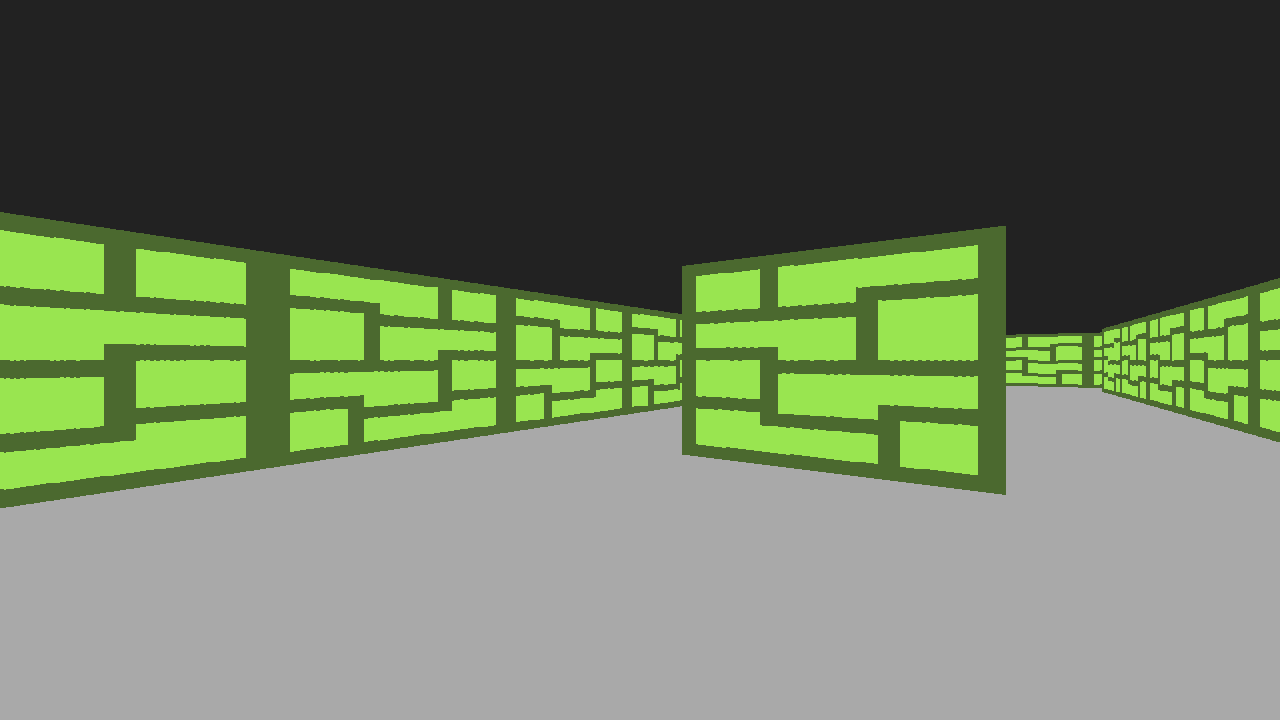
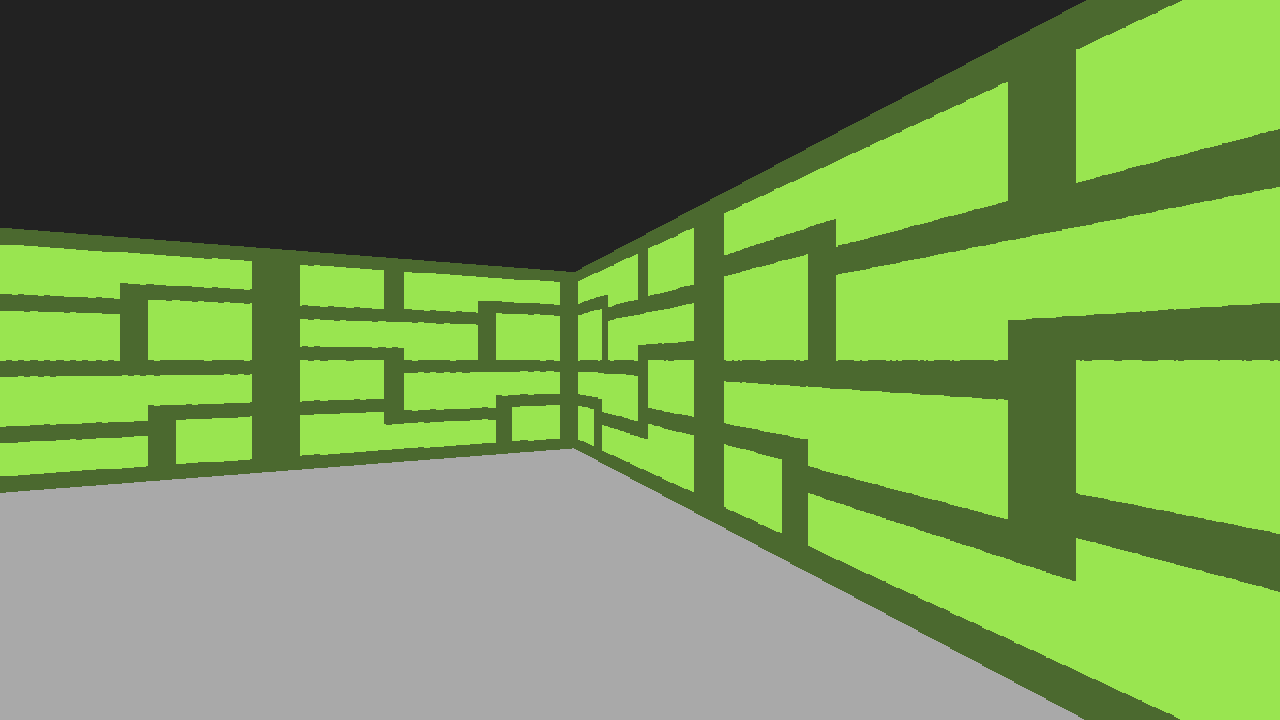
Added Relics
- Relics
- Relic Icons
- Relic Class
- Relic info
- Relics now are properly displayed in battle won menu
- When a relic is selected in the menu the player's stats are actually affected

diff --git a/main.py b/main.py
@@ -21,8 +21,6 @@ print("Hello World!")
 player_pos = [2.5,10.5]#The coordinate of the player, (xy)
 
 
-
-
 def new_maze(wall_tiles = [wall_image("Brick.png"), wall_image("Blue_Brick.png")]):
     global map, player_pos
 
@@ -75,10 +73,14 @@ map = [[1,1,1,1,1,1,1,1,1],
        [1,0,"S",0,1],
        [1,0,1,0,tile("Wall",wall_image=wall_image("Blue_Brick.png"))],
        [1,0,0,0,tile("Wall",wall_image=wall_image("SmoothStone.png"))],
+       [1,0,0,0,1,1,1,1,1],
+       [1,0,0,0,"BasicSlime","BasicSlime","BasicSlime","BasicSlime",1],
+       [1,0,"S",0,1,1,1,1,1],
        [1,0,"BasicSlime",0,tile("Wall",wall_image=wall_image("SmoothStone.png")),1,1,1,1],
        [wallTest,0,0,0,0,0,0,0,1],
        [1,0,"W",0,0,0,"KingFireSlime",0,1],#W on this line is just an indicator for me for where the player starts, it doesn't affect any processing
        [1,1,1,1,1,1,1,1,1]]
+
 
 
 for x in range(len(map)):
@@ -91,7 +93,7 @@ for x in range(len(map)):
             map[x][y]=tile("Sprite",spriteInfo=map[x][y])
         elif type(map[x][y])==str:
             map[x][y]=tile("Enemy",spriteInfo=map[x][y])
-            # print(1)
+
 
 # print(type(tile("Wall",wall_image("Smooth_Stone.png"))))
 
@@ -118,6 +120,15 @@ turnOrder = ["#0000FF","#0000FF","#FF0000","#0000FF","#FF0000"]
 # door = Image.open("Assets/Door.png")
 
 sprites_loaded = {"door" : pygame.image.load("Assets/Door.png").convert_alpha(),"KingFireSlime": pygame.image.load("Assets/KingFireSlime.png").convert_alpha(),"BasicSlime": pygame.image.load("Assets/BasicSlime.png").convert_alpha()}
+
+icons = {"SpeedSyringe": pygame.image.load("Assets/Syringe.png").convert_alpha(),"HeavyPlating": pygame.image.load("Assets/HeavyPlating.png").convert_alpha(),
+         "SpikeyBand": pygame.image.load("Assets/SpikeyBand.png").convert_alpha(),"FireShard": pygame.image.load("Assets/FireShard.png").convert_alpha(),
+         "IceShard": pygame.image.load("Assets/IceShard.png").convert_alpha(),"EarthShard": pygame.image.load("Assets/EarthShard.png").convert_alpha(),
+         "HPUP": pygame.image.load("Assets/Sprite.png").convert_alpha(),"Battery": pygame.image.load("Assets/Battery.png").convert_alpha(),}
+
+
+relics = load_relics()
+randomRelics = []
 
 #UI images
 player_selfie = pygame.image.load("Assets/PlayerSelfie.png").convert_alpha()
@@ -724,11 +735,36 @@ def draw_battle_won_UI():
     pygame.draw.rect(screen,reward_selection_colours[0], pygame.Rect(420,150,440,100),border_radius=10)
     pygame.draw.rect(screen,"#000000", pygame.Rect(422,152,436,96),border_radius=10)
 
+    pygame.draw.rect(screen,"#FFFFFF", pygame.Rect(428,158,84,84),border_radius=2)
+    screen.blit(pygame.transform.scale_by(icons[randomRelics[0].image],5),(430,160))
+
+    draw_text(screen,randomRelics[0].name,"#FFFFFF",525,160,fontSize=36)
+    draw_text(screen,randomRelics[0].description,"#FFFFFF",525,200,fontSize=16)
+    draw_text(screen,randomRelics[0].effectDescription,"#FFFFFF",525,220,fontSize=16)
+
+
+
     pygame.draw.rect(screen,reward_selection_colours[1], pygame.Rect(420,270,440,100),border_radius=10)
     pygame.draw.rect(screen,"#000000", pygame.Rect(422,272,436,96),border_radius=10)
 
+    pygame.draw.rect(screen,"#FFFFFF", pygame.Rect(428,278,84,84),border_radius=2)
+    screen.blit(pygame.transform.scale_by(icons[randomRelics[1].image],5),(430,280))
+
+    draw_text(screen,randomRelics[1].name,"#FFFFFF",525,280,fontSize=36)
+    draw_text(screen,randomRelics[1].description,"#FFFFFF",525,320,fontSize=16)
+    draw_text(screen,randomRelics[1].effectDescription,"#FFFFFF",525,340,fontSize=16)
+
+
+
     pygame.draw.rect(screen,reward_selection_colours[2], pygame.Rect(420,390,440,100),border_radius=10)
     pygame.draw.rect(screen,"#000000", pygame.Rect(422,392,436,96),border_radius=10)
+
+    pygame.draw.rect(screen,"#FFFFFF", pygame.Rect(428,398,84,84),border_radius=2)
+    screen.blit(pygame.transform.scale_by(icons[randomRelics[2].image],5),(430,400))
+
+    draw_text(screen,randomRelics[2].name,"#FFFFFF",525,400,fontSize=36)
+    draw_text(screen,randomRelics[2].description,"#FFFFFF",525,440,fontSize=16)
+    draw_text(screen,randomRelics[2].effectDescription,"#FFFFFF",525,460,fontSize=16)
 
     #:D
     draw_text(screen,f":D","#FFFFFF",640,600,fontSize=24,centre=True)
@@ -781,11 +817,20 @@ def check_over_max_hp():
 
 
 def check_battle_end():
+    global randomRelics
+
     if player_stats.hp <= 0:
         pass
     if enemy_obj.hp <= 0:
+        #End battle and go to battle won menu
         game_state.set_value("Battle-Won")
         # map[int(player_pos[1])][int(player_pos[0])] = 0
+
+        #Choose 3 Random Relics
+        # randomRelics = [random.choice(relics),random.choice(relics),random.choice(relics)]
+        randomRelics = []
+        for _ in range(3):
+            randomRelics.append(random.choice(relics))
         draw_screen()
 
 
@@ -810,7 +855,7 @@ class battleAnimation():
 
         # pygame.draw.rect(surface=surface, color="green", rect=pygame.Rect(c,c,c,c))
 
-        print(self.lengthTime//self.numberOfFrames)
+        # print(self.lengthTime//self.numberOfFrames)
 
         for _ in range(self.lengthTime):
             
@@ -839,7 +884,7 @@ class battleAnimation():
         pygame.image.save(surface,"Assets/saveBattleAnimationBackground.png")
 
         
-        print(self.lengthTime//self.numberOfFrames)
+        # print(self.lengthTime//self.numberOfFrames)
 
 
         for _ in range(self.lengthTime):
@@ -1190,6 +1235,13 @@ def main():
                         game_state.set_value("Moving")
                         draw_screen()
                         pygame.display.flip()
+
+                        # player_stats.relics.append("Speed Syringe")
+                        # player_stats.speed *= 1.1
+
+                        player_stats.relics.append(randomRelics[menu_selected["Battle-Won"]].name)
+                        relic_apply_stat_change(player_stats, randomRelics[menu_selected["Battle-Won"]])
+
                         break
                     if event.key == pygame.K_w or event.key == pygame.K_UP:
                         menu_selected["Battle-Won"] = (menu_selected["Battle-Won"]-1)% 3#cycle up, %3 to go back to the bottom

diff --git a/battleElements.py b/battleElements.py
@@ -14,6 +14,11 @@ class battle_container():
         self.fireDefence = fireDefence
         self.iceDefence = iceDefence
         self.earthDefence = earthDefence
+
+    #prints out all the attributes of the object
+    #useful for testing
+    def output_stats(self):
+        print(vars(self))
         
 
 class player_battle_container(battle_container):
@@ -152,6 +157,58 @@ class enemy_move():
         self.damageType=damageType
         self.value = value
         self.anim = damageType+str(animNum)+"Enemy"
+
+
+class relic():
+    def __init__(self,name:str, description:str, effectDescription:str,image,stat:str,addVal=0,multVal=1):
+        self.name = name
+        self.description = description
+        self.effectDescription = effectDescription
+        self.image=image
+        self.stat = stat
+        self.addVal = addVal
+        self.multVal = multVal
+
+def load_relics():
+    relicTempList = []
+    relicTempList.append(relic("Spikey Band","This will make your attacks hurt more","(Increases Physical Strength by 10%)","SpikeyBand","physicalStrength",multVal=1.1))
+    relicTempList.append(relic("Heavy Plating","This plating will dull your opponents blows","(Increases Defence by 10%)","HeavyPlating","defence",multVal=1.1))
+    relicTempList.append(relic("Speed Syringe","This special serum will make you move quicker","(Increases speed by 10%)","SpeedSyringe","speed",multVal=1.1))
+    relicTempList.append(relic("Fire Shard","This will imporve your ability to use fire","(Increases fire affinity by 10%)","FireShard","fireAffinity",multVal=1.1))
+    relicTempList.append(relic("Ice Shard","This will imporve your ability to use ice","(Increases ice affinity by 10%)","IceShard","iceAffinity",multVal=1.1))
+    relicTempList.append(relic("Earth Shard","This will imporve your ability to use earth","(Increases earth affinity by 10%)","EarthShard","EarthAffinity",multVal=1.1))
+    relicTempList.append(relic("HP","This will increase your HP","(+10 HP)","HPUP","HP",addVal=10))
+    relicTempList.append(relic("Battery","This will increase your energy capacity","(+5 EP)","Battery","EP",addVal=5))
+
+    return relicTempList
+
+
+def relic_apply_stat_change(playerObject: battle_container,relicObject: relic):
+    stat = relicObject.stat
+    if stat == "physicalStrength":
+        playerObject.physicalStrength = (playerObject.physicalStrength + relicObject.addVal) * relicObject.multVal
+    elif stat == "defence":
+        playerObject.defence = (playerObject.defence + relicObject.addVal) * relicObject.multVal
+    elif stat == "speed":
+        playerObject.speed = (playerObject.speed + relicObject.addVal) * relicObject.multVal
+    elif stat == "fireAffinity":
+        playerObject.fireStrength = (playerObject.fireStrength + relicObject.addVal) * relicObject.multVal
+        playerObject.fireDefence = (playerObject.fireDefence + relicObject.addVal) * relicObject.multVal
+    elif stat == "iceAffinity":
+        playerObject.iceStrength = (playerObject.iceStrength + relicObject.addVal) * relicObject.multVal
+        playerObject.iceDefence = (playerObject.iceDefence + relicObject.addVal) * relicObject.multVal
+    elif stat == "earthAffinity":
+        playerObject.earthStrength = (playerObject.earthStrength + relicObject.addVal) * relicObject.multVal
+        playerObject.earthDefence = (playerObject.earthDefence + relicObject.addVal) * relicObject.multVal
+    elif stat == "HP":
+        playerObject.max_hp = (playerObject.max_hp + relicObject.addVal) * relicObject.multVal
+        playerObject.hp = (playerObject.hp + relicObject.addVal) * relicObject.multVal
+    elif stat == "EP":
+        playerObject.max_ep = (playerObject.max_ep + relicObject.addVal) * relicObject.multVal
+        playerObject.ep = (playerObject.ep + relicObject.addVal) * relicObject.multVal
+
+    playerObject.output_stats()
+    
 
 
 def load_energy_moves():
